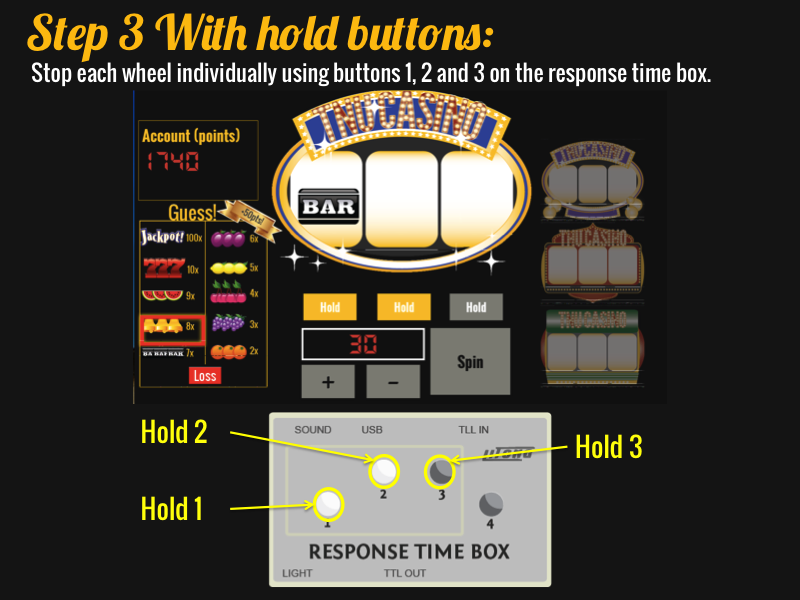
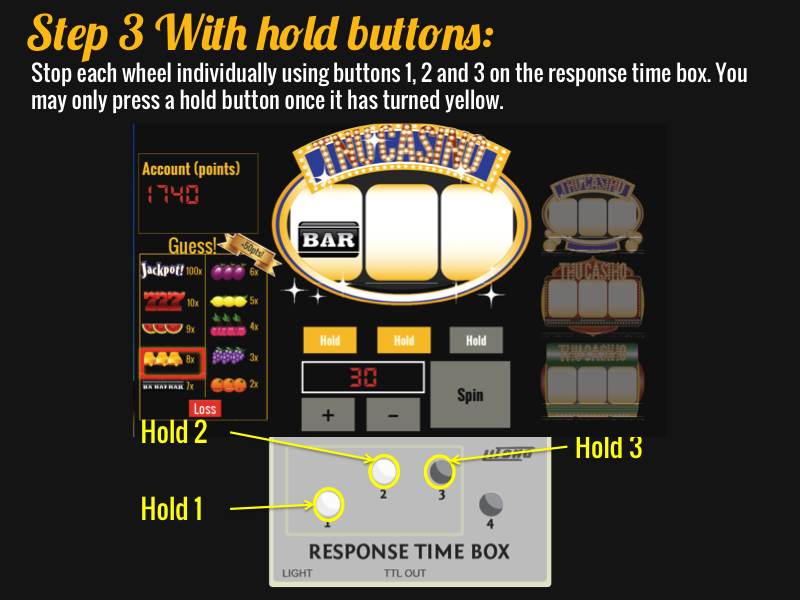
Updated instructions, updated gamble, spin smoother.

Changed region(s): [[0.0312, 0.15, 0.8125, 0.75], [0.875, 0.09, 0.9375, 0.15]]

diff --git a/cstcg_slot_functions.py b/cstcg_slot_functions.py
@@ -328,6 +328,28 @@ def display_assets(c,positions,sizes,task):
     pygame.display.update()
 
 
+def make_hold_buttons(c,positions,sizes,task):
+    buttons = {}
+
+    buttons['hold1'] = SlotButton(rect=(positions['hold1_x'],positions['hold_y'], sizes['sbw'],sizes['xsbh']),\
+    caption="Hold", fgcolor=WHITE, bgcolor=GOLD, font=c.button)
+    if task['ungrey_wheel2']:
+        buttons['hold2'] = SlotButton(rect=(positions['hold2_x'],positions['hold_y'], sizes['sbw'],sizes['xsbh']),\
+        caption="Hold", fgcolor=WHITE, bgcolor=GOLD, font=c.button)
+    else:
+        buttons['hold2'] = SlotButton(rect=(positions['hold2_x'],positions['hold_y'], sizes['sbw'],sizes['xsbh']),\
+        caption="Hold", fgcolor=WHITE, bgcolor=GRAY, font=c.button)
+
+    if task['ungrey_wheel3']:   
+        buttons['hold3'] = SlotButton(rect=(positions['hold3_x'],positions['hold_y'], sizes['sbw'],sizes['xsbh']),\
+        caption="Hold", fgcolor=WHITE, bgcolor=GOLD, font=c.button)
+    else: 
+        buttons['hold3'] = SlotButton(rect=(positions['hold3_x'],positions['hold_y'], sizes['sbw'],sizes['xsbh']),\
+        caption="Hold", fgcolor=WHITE, bgcolor=GRAY, font=c.button)
+
+    return buttons
+
+
 def make_buttons(c,positions,sizes,task,trial_stage):
     buttons = {}
     if trial_stage == 'guess':
@@ -621,8 +643,8 @@ def gamble(c,task, positions, sizes, RTB):
     c.screen.blit(card_back,(x_pos,y_pos))
 
     eeg_trigger(c,task,'gamble_screen')
-    pygame.display.update()
-    waitfun(1000)
+    # pygame.display.update()
+    # waitfun(100)
 
     gamble_button = SlotButton(rect=(positions['gamble_x'],positions['gamble_y'], sizes['bbw'],sizes['sbh']),\
         caption="Gamble",  fgcolor=c.background_color, bgcolor=RED, font=c.button)
@@ -790,22 +812,8 @@ def individual_wheel_spin(c, positions, buttons,sizes, task,RTB):
 
     counter = 0
     time_start = int(round(time.time()*1000))
-    while counter < 30:
-        spinsound.play(100,0)
-        if counter == 10:
-            task['ungrey_wheel2'] = True
-            buttons = make_buttons(c,positions,sizes,task,task['trial_stage'])    
-            for key in buttons:
-                buttons[key].draw(c.screen)
-            pygame.display.update()
-
-        elif counter == 20:
-            task['ungrey_wheel3'] = True
-            buttons = make_buttons(c,positions,sizes,task,task['trial_stage'])
-            for key in buttons:
-                buttons[key].draw(c.screen)
-            pygame.display.update()
-
+    spinsound.play(100,0)
+    while counter < 40:
         key_press = RTB.read() 
         if len(key_press):
             key_index = ord(key_press)
@@ -813,67 +821,67 @@ def individual_wheel_spin(c, positions, buttons,sizes, task,RTB):
             if len(events) > 0:
                 pygame.event.post(events[0])
                 pygame.event.post(events[1])
-        if pygame.event.peek([MOUSEBUTTONDOWN,MOUSEBUTTONUP]):
-            for event in pygame.event.get():
-                if event.type==MOUSEBUTTONDOWN:
-                    c.log('Trial ' + str(task['trial']) + ': Holding wheels at ' + repr(time.time()) + '\n')
-                    buttons['hold1'].handleEvent(event)
-                    buttons['hold1'].draw(c.screen)
-
-                    if task['ungrey_wheel2']:
-                        buttons['hold2'].handleEvent(event)
-                        buttons['hold2'].draw(c.screen)
-
-                    if task['ungrey_wheel3']:
-                        buttons['hold3'].handleEvent(event)
-                        buttons['hold3'].draw(c.screen)
-
-                    pygame.display.update()
-                elif event.type==MOUSEBUTTONUP:
-                    if 'click' in buttons['hold1'].handleEvent(event):
-                        c.press_sound.play()
+            if pygame.event.peek([MOUSEBUTTONDOWN,MOUSEBUTTONUP]):
+                for event in pygame.event.get():
+                    if event.type==MOUSEBUTTONDOWN:
+                        c.log('Trial ' + str(task['trial']) + ': Holding wheels at ' + repr(time.time()) + '\n')
+                        buttons['hold1'].handleEvent(event)
                         buttons['hold1'].draw(c.screen)
-                        pygame.display.update()
-                        task['wheel1'] = True
- 
-                        if task['wheel2'] and task['wheel3']:
-                            buttons['pull'].handleEvent(event)
-                            buttons['pull'].draw(c.screen)
-                            c.wait_fun(100)                  
-                            c.screen.blit(machines[str(task['machine'])],(positions['machine']['base_x'],positions['machine']['base_y']))      
-                            show_result(c,positions,buttons,task,spinning=True)
-                            pygame.display.update()
-                            counter = 40
-                    if task['ungrey_wheel2']:
-                        if 'click' in buttons['hold2'].handleEvent(event):
-                            c.press_sound.play()
+
+                        if task['ungrey_wheel2']:
+                            buttons['hold2'].handleEvent(event)
                             buttons['hold2'].draw(c.screen)
-                            pygame.display.update()
-                            task['wheel2'] = True
 
-                            if task['wheel1'] and task['wheel3']:
-                                buttons['pull'].handleEvent(event)
-                                buttons['pull'].draw(c.screen)           
-                                c.wait_fun(100)
-                                c.screen.blit(machines[str(task['machine'])],(positions['machine']['base_x'],positions['machine']['base_y']))
-                                show_result(c,positions,buttons,task, spinning=True)
-                                pygame.display.update()
-                                counter = 40
-                    if task['ungrey_wheel3']:
-                        if 'click' in buttons['hold3'].handleEvent(event):
-                            c.press_sound.play()
+                        if task['ungrey_wheel3']:
+                            buttons['hold3'].handleEvent(event)
                             buttons['hold3'].draw(c.screen)
-                            pygame.display.update()
-                            task['wheel3'] = True
 
-                            if task['wheel1'] and task['wheel2']:
+                        pygame.display.update()
+                    elif event.type==MOUSEBUTTONUP:
+                        if 'click' in buttons['hold1'].handleEvent(event):
+                            c.press_sound.play()
+                            buttons['hold1'].draw(c.screen)
+                            pygame.display.update()
+                            task['wheel1'] = True
+     
+                            if task['wheel2'] and task['wheel3']:
                                 buttons['pull'].handleEvent(event)
                                 buttons['pull'].draw(c.screen)
-                                c.wait_fun(100)
-                                c.screen.blit(machines[str(task['machine'])],(positions['machine']['base_x'],positions['machine']['base_y']))
-                                show_result(c,positions,buttons,task, spinning=True)
+                                c.wait_fun(100)                  
+                                c.screen.blit(machines[str(task['machine'])],(positions['machine']['base_x'],positions['machine']['base_y']))      
+                                show_result(c,positions,buttons,task,spinning=True)
                                 pygame.display.update()
                                 counter = 40
+                        if task['ungrey_wheel2']:
+                            if 'click' in buttons['hold2'].handleEvent(event):
+                                c.press_sound.play()
+                                buttons['hold2'].draw(c.screen)
+                                pygame.display.update()
+                                task['wheel2'] = True
+
+                                if task['wheel1'] and task['wheel3']:
+                                    buttons['pull'].handleEvent(event)
+                                    buttons['pull'].draw(c.screen)           
+                                    c.wait_fun(100)
+                                    c.screen.blit(machines[str(task['machine'])],(positions['machine']['base_x'],positions['machine']['base_y']))
+                                    show_result(c,positions,buttons,task, spinning=True)
+                                    pygame.display.update()
+                                    counter = 40
+                        if task['ungrey_wheel3']:
+                            if 'click' in buttons['hold3'].handleEvent(event):
+                                c.press_sound.play()
+                                buttons['hold3'].draw(c.screen)
+                                pygame.display.update()
+                                task['wheel3'] = True
+
+                                if task['wheel1'] and task['wheel2']:
+                                    buttons['pull'].handleEvent(event)
+                                    buttons['pull'].draw(c.screen)
+                                    c.wait_fun(100)
+                                    c.screen.blit(machines[str(task['machine'])],(positions['machine']['base_x'],positions['machine']['base_y']))
+                                    show_result(c,positions,buttons,task, spinning=True)
+                                    pygame.display.update()
+                                    counter = 40
         else:
             if 0 < round(time.time()*1000) % n < n/4 and show1:
                 if not task['wheel1']:
@@ -905,6 +913,18 @@ def individual_wheel_spin(c, positions, buttons,sizes, task,RTB):
                 counter += 1
                 c.screen.blit(machines[str(task['machine'])],(positions['machine']['base_x'],positions['machine']['base_y']))
                 show_result(c,positions,buttons,task, spinning=True)
+
+                if counter == 10:
+                    task['ungrey_wheel2'] = True
+                    buttons = make_buttons(c,positions,sizes,task,task['trial_stage'])
+                    for key in buttons:
+                        buttons[key].draw(c.screen)
+                elif counter == 20:
+                    task['ungrey_wheel3'] = True
+                    buttons = make_buttons(c,positions,sizes,task,task['trial_stage'])
+                    for key in buttons:
+                        buttons[key].draw(c.screen)
+
                 pygame.display.flip()
                 show4 = False
                 show1 = True
@@ -1002,7 +1022,7 @@ def spin_wheels(c, positions, buttons, task, RTB):
         spinsound.stop()
 
 
-def eeg_trigger(c,task,type):
+def eeg_trigger(c,task,stage):
     # port = windll.inpoutx64
     # address = 45072
 

diff --git a/cstcg_slot_machine.py b/cstcg_slot_machine.py
@@ -10,7 +10,8 @@ import numpy as np
 from scipy.io import savemat
 import platform
 
-testing = False
+
+
 response_box = True
 currency = 'points'
 
@@ -46,7 +47,7 @@ matlab_output_file = c.create_output_file(subjectname)
 
 # Task trace:
 result_sequence = []
-wheel_hold_bool = [False, True]
+wheel_hold_bool = [True, True]
 block_order = []
 control_seq = []
 
@@ -108,37 +109,35 @@ task['training'] = True
 # Set up initial screen 
 positions, buttons, sizes = get_screen_elements(c, task)
 
-if not testing:
-    instruction_screen(c,positions,sizes,RTB)
-    welcome_screen(c)
+
+instruction_screen(c,positions,sizes,RTB)
+welcome_screen(c)
 
 for trial in range(NUM_TRIALS):   
 
     if trial == 0:
-        if not testing:
-            begin_training_screen(c)
-            background_music.play(100,0)
+        begin_training_screen(c)
+        background_music.play(100,0)
 
     if trial < 10:
         task['machine'] = 5
         task['wheel_hold_buttons'] = wheel_hold_bool[0]
-    elif 10 <= trial <= 20:
+    elif 10 <= trial < 20:
         task['machine'] = 6
         task['wheel_hold_buttons'] = wheel_hold_bool[1]
-    elif trial == 21:
-        if not testing:
-            task['training'] = False
-            background_music.stop()
-            end_training_screen(c)
-            task['account'][trial] = 2000
-            task['machine'] = block_order[0]
-            task['current_block'] = block_order[0]
-            task['wheel_hold_buttons'] = wheel_hold_bool[2]
-            welcome_screen(c)
-            background_music.play(100,0)
-            c.log('Starting block ' + str(block_order[0]) + ' at ' + repr(time.time()) + '\n')
-            c.log('Machine ' + str(task['machine']) + 'at ' + repr(time.time()) + '\n')
-            c.log('Wheel hold buttons are ' + str(wheel_hold_bool[3]) + ' at ' + repr(time.time()) + '\n')
+    elif trial == 20:
+        task['training'] = False
+        background_music.stop()
+        end_training_screen(c)
+        task['account'][trial] = 2000
+        task['machine'] = block_order[0]
+        task['current_block'] = block_order[0]
+        task['wheel_hold_buttons'] = wheel_hold_bool[2]
+        welcome_screen(c)
+        background_music.play(100,0)
+        c.log('Starting block ' + str(block_order[0]) + ' at ' + repr(time.time()) + '\n')
+        c.log('Machine ' + str(task['machine']) + 'at ' + repr(time.time()) + '\n')
+        c.log('Wheel hold buttons are ' + str(wheel_hold_bool[3]) + ' at ' + repr(time.time()) + '\n')
     elif trial == 65:
         change_machine_screen(c)
         task['machine'] = block_order[1]
